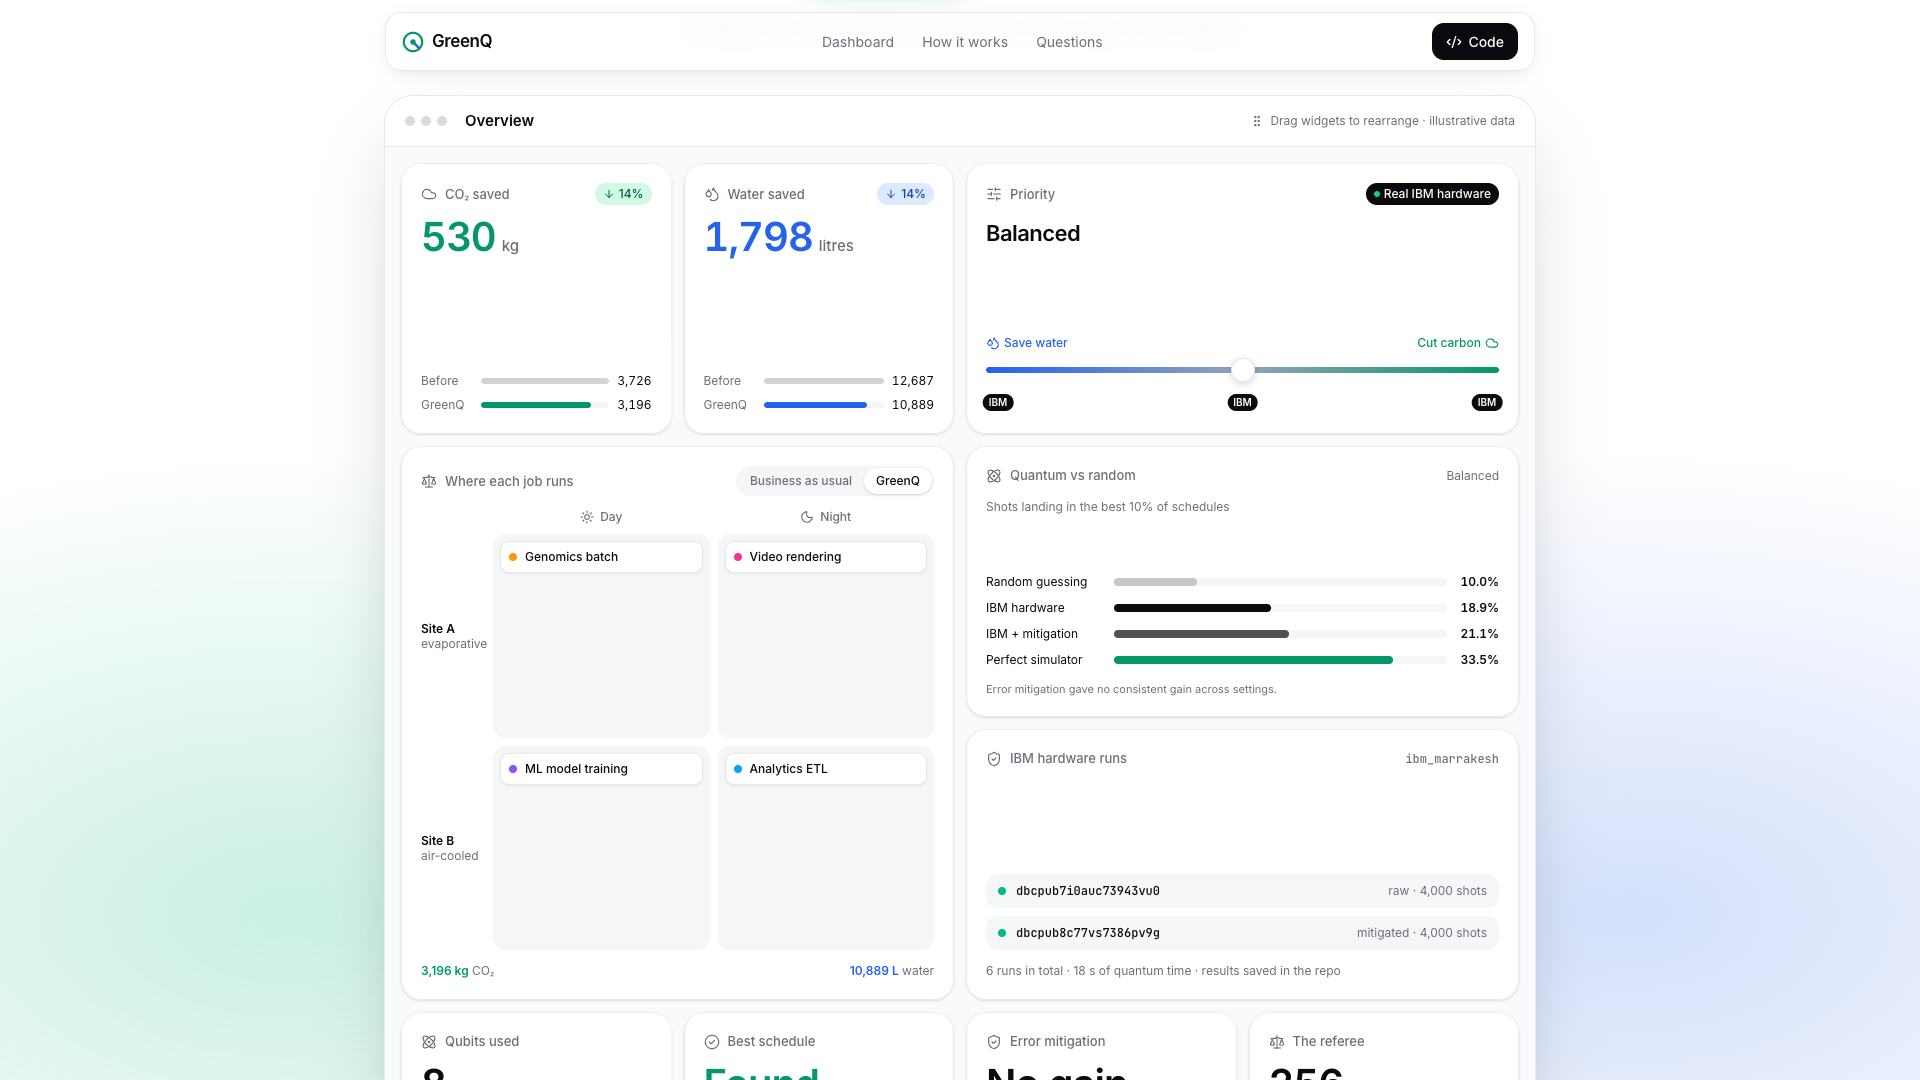
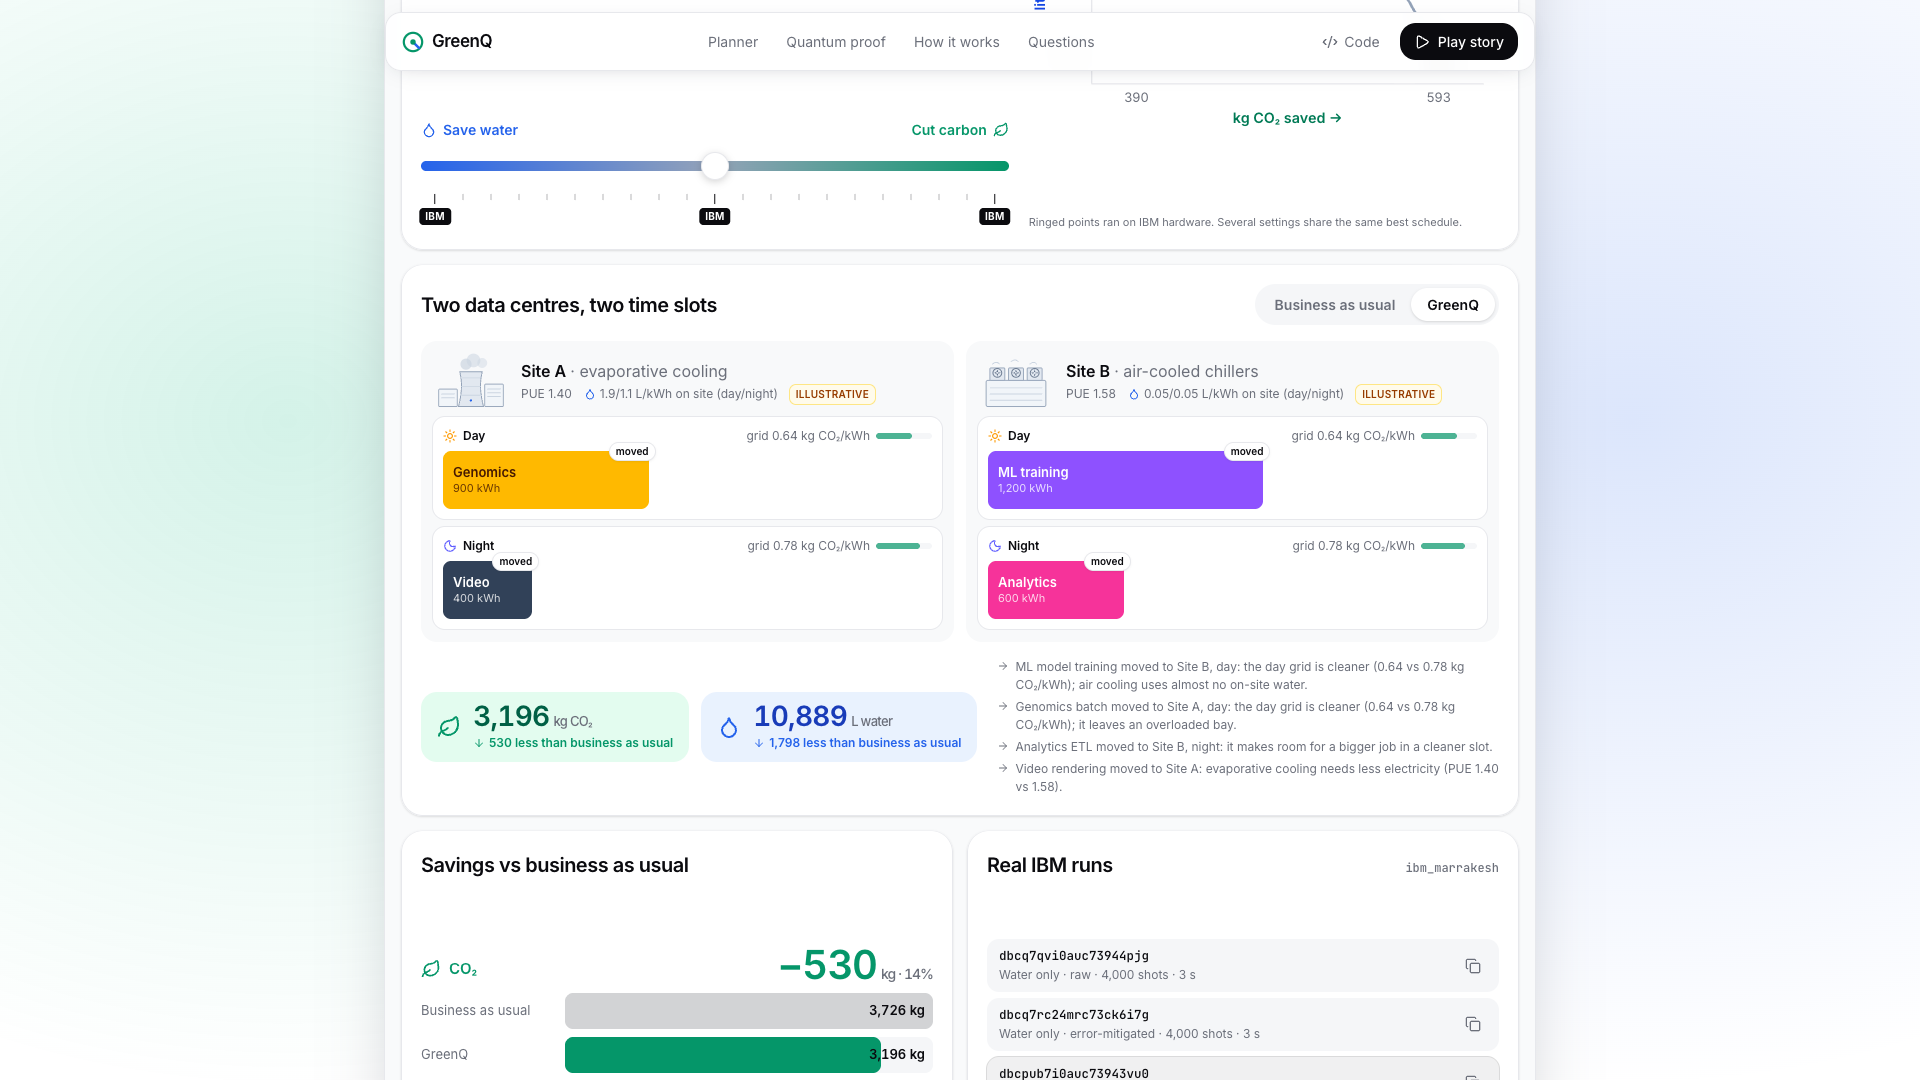
docs: align docs with the story-driven UI (video script, explainer, README screenshots, product brief)

diff --git a/docs/VIDEO_SCRIPT.md b/docs/VIDEO_SCRIPT.md
@@ -1,63 +1,45 @@
 # GreenQ demo video script (3 to 4 minutes)
 
-For: whoever records the YouTube demo. The viewers are the hackathon jury, so it must also make sense on a projector in the finals.
+For: whoever records the YouTube demo. The viewers are the hackathon jury, so it must also work on a projector in the finals.
 
-**Setup before recording**
-- Start the demo with `python -m server` and open http://127.0.0.1:8000. It runs fully offline from saved results, so there is no waiting on IBM.
-- Reload the page just before recording so the gauges play their drawdown on camera.
-- Browser full screen at **1920×1080**, zoom 100%, dark theme. Close other tabs and notifications.
-- Record the screen plus a voice-over (OBS or the macOS screen recorder, `Cmd+Shift+5`). Speak slowly. Each block below is about 25-40 seconds.
-- Total narration is about 500 words, roughly 3.5 minutes at a calm pace.
-- Upload to YouTube (Unlisted is fine unless the organisers say otherwise), then paste the link into the README and slide 12.
+**Setup**
+- `python -m server` in the project folder, then open http://127.0.0.1:8000 in a full-screen browser at **1920×1080**, zoom 100%. It runs offline from saved results.
+- Record screen + voice (OBS, or `Cmd+Shift+5` on macOS). Speak slowly.
+- The easiest take: press **Play story** in the top-right and narrate over it, then scroll through the rest by hand. Scrolling or clicking pauses the story.
+- Narration is about 480 words, roughly 3.5 minutes.
 
 ---
 
-### 0:00-0:20 · Hook (Headline section)
-**Screen:** the opening headline, "Same jobs, smarter placement.", with the two big numbers. Let the two gauges finish dropping from the amber BUSINESS AS USUAL tag to the GreenQ level.
+### 0:00-0:20 · Headline (hero)
+**Screen:** the top of the page; the small animation shows the jobs moving.
 
-**Say:**
-"Data centres burn electricity and evaporate cooling water. Many of their jobs are flexible: they could run at a different site or at a different time. GreenQ uses a quantum algorithm to decide where and when, and in our example it saves 530 kilograms of CO₂ and about 1,800 litres of water, with the same jobs."
+**Say:** "Data centres burn electricity and evaporate cooling water. Many of their jobs are flexible: they could run at another site, or at another time. GreenQ uses a quantum algorithm to decide where and when. In our example the same four jobs emit 530 kilograms less CO₂ and use about 1,800 litres less water."
 
-### 0:20-0:55 · The problem (Schedule board, left side)
-**Screen:** the business-as-usual board. Point the cursor at Site A at night, where two jobs are stacked and the cell is marked overloaded.
+### 0:20-1:05 · The two data centres (press Play story)
+**Screen:** the story scrolls to the planner. First *Business as usual*, then the job blocks slide to *GreenQ*.
 
-**Say:**
-"Here's business as usual. Each job runs at its home site the moment it arrives. We have two sites: Site A uses evaporative cooling, which saves electricity but uses water. Site B is air-cooled: almost no water on site, but more electricity, and in India most electricity comes from coal plants that also consume water. An evening batch burst puts two big jobs on Site A overnight, on a coal-heavy grid, and overloads it."
+**Say:** "Here are two data centres. Site A uses evaporative cooling: less electricity, more water. Site B is air-cooled: almost no water on site, but more electricity. Each has a day slot, when India's grid is cleaner thanks to solar, and a night slot. Business as usual runs every job at home the moment it arrives, and two big jobs pile onto Site A at night. GreenQ moves them. The ML job goes to Site B in the day, and the others spread out. The counters show the result, and underneath, the reason each job moved."
 
-### 0:55-1:25 · GreenQ's schedule (Schedule board, both sides)
-**Screen:** scroll so both boards are in view; the jobs slide into their GreenQ bays (use **Replay the move** to show it again). Pause on the result.
+### 1:05-1:45 · The trade-off (story sweeps the slider)
+**Screen:** the slider sweeps to *Carbon only*, then *Water only*; the dot moves along the trade-off curve and the blocks re-place.
 
-**Say:**
-"GreenQ moves the ML training job to the air-cooled site during the day, when solar makes the grid cleaner, and spreads the other jobs out so nothing is overloaded. Total: 14 percent less carbon and 14 percent less water. We checked this against every one of the 256 possible schedules, and it is the true best one."
+**Say:** "Carbon and water pull against each other. Favour carbon and the plan changes; favour water and it changes again. This curve is every compromise. The three stops marked IBM, water only, balanced and carbon only, were run on a real IBM quantum computer."
 
-### 1:25-2:05 · The trade-off (slider)
-**Screen:** drag the slider slowly from SAVE WATER to CUT CARBON. Stop on the three solid stops badged **REAL IBM HARDWARE**; point at the job IDs in the line under the slider.
+### 1:45-2:40 · The quantum part (story scrolls to the circuit, then the histogram)
+**Screen:** the circuit, then the histogram and the four facts.
 
-**Say:**
-"Carbon and water pull in different directions, so we added a priority slider. Favour water and the jobs move one way; favour carbon and they move another. Five different schedules are best somewhere along this slider. The three marked positions, water only, balanced and carbon only, were run on a real IBM quantum computer, and their results are saved in our repository with the job IDs."
+**Say:** "This is the actual circuit we ran: eight qubits, two per job, a 'where' and a 'when'. The textbook method needs sixteen. Hadamards start with all 256 schedules at once; the green cost layer adds each schedule's carbon-and-water cost; the blue mixer makes cheap schedules interfere into the lead. Each shot reads out one schedule. Random guessing puts 10 percent of its shots in the best tenth. IBM's Marrakesh processor put 18 to 23 percent there, and a perfect simulator about 30. So the hardware works, noise costs part of the gain, and error mitigation gave no consistent improvement."
 
-### 2:05-2:50 · Is the quantum part real? (Quantum proof panel)
-**Screen:** the "Is the quantum part real?" section: the best-tenth bars (solid = hardware, hatched = simulator, dashed = random), then scroll to the job ledger and the four honest notes.
+### 2:40-3:10 · Proof it is real (scroll up to the panels)
+**Screen:** the Real IBM runs panel; point at the job IDs.
 
-**Say:**
-"How do we know the quantum part is doing real work? Each shot of the circuit outputs one complete schedule. Random guessing puts 10 percent of its shots in the best tenth of schedules. IBM's Marrakesh processor put about 19 to 21 percent there, roughly twice as many, and a perfect simulator about 33 percent. So the real hardware works, and noise costs part of the gain. We also tried error mitigation, and honestly it gave no consistent improvement. We ran six hardware jobs and used 18 seconds of quantum time."
+**Say:** "We ran six jobs on IBM hardware, eighteen seconds of quantum time, and every result is saved in our repository with its job ID."
 
-### 2:50-3:25 · How it works (four steps)
-**Screen:** the "How it works" section.
-
-**Say:**
-"How it works, in four steps. One: every job gets two qubits, a 'where' qubit and a 'when' qubit, so every measurement is a valid schedule. That uses half the qubits of the textbook approach. Two: we turn the carbon-plus-water cost into a Hamiltonian, and our tests prove it matches the classical cost on every schedule. Three: a QAOA circuit, built in Qiskit, uses interference to make cheap schedules more likely; we train its two angles on a simulator. Four: the trained circuit runs on IBM hardware, and we grade the answer against brute force."
-
-### 3:25-3:50 · Honesty and close (footer)
-**Screen:** the honesty footer, then back to the headline.
-
-**Say:**
-"To be clear: at this size a normal computer solves the problem instantly, and we use it as our referee. We don't claim a quantum advantage. The grid carbon and power-plant water figures are cited; the site and job figures are illustrative and labelled. What we've shown is a correct, compact quantum formulation of a real sustainability problem, validated end to end on real IBM hardware. That's GreenQ, by Team Response200. Thanks for watching."
+### 3:10-3:40 · Honest close (scroll to How it works, Honest answers, footer)
+**Say:** "To be clear: at this size a laptop checks all 256 schedules instantly, and we use it as our referee. We claim no quantum advantage. The grid carbon and power-plant water figures are cited; the sites and jobs are illustrative. What we show is a correct, compact quantum formulation of a real sustainability problem, tested on real IBM hardware. That's GreenQ, by Team Response200."
 
 ---
 
-**Checklist after recording**
-- [ ] Every number spoken matches the screen (530 kg, ~1,800 L, 14%, 19-21%, 10%, 33%, 6 jobs, 18 s)
-- [ ] The "real IBM hardware" badge is visible on screen while it's mentioned
-- [ ] Video is 3-4 minutes, 1080p, audio is clear
-- [ ] YouTube link added to README (Submission Checklist + Links) and PPT slide 12
+**Checklist:** every number spoken matches the screen (530 kg, ~1,800 L, 8 vs 16 qubits, 10%, 18–23%, 6 jobs, 18 s) · 3–4 minutes at 1080p · YouTube link added to README and PPT slide 12.
+
+_Note: if later features add new panels (for example "Methods compared" or "How it scales"), this script is updated to match what ships._

diff --git a/docs/EXPLAINER.md b/docs/EXPLAINER.md
@@ -101,19 +101,15 @@ The search space grows as 4^jobs. Qubits grow linearly (2 per job), but circuit 
 The circuit in `greenq/qaoa.py`, built with Qiskit's `QAOAAnsatz` from our own Hamiltonian, transpiled for the real device and run with `SamplerV2` on IBM hardware. Job IDs are in `results/hardware/`.
 
 ## 9. The demo UI (what each part shows, and what to say)
-Start it with `python -m server` and open http://127.0.0.1:8000. It reads only saved results, so it needs no internet and no IBM account.
+Start it with `python -m server` and open http://127.0.0.1:8000. It reads only saved results (`results/ui_data.json`), so it needs no internet and no IBM account. Press **Play story** for a 20-second guided run; scrolling or clicking pauses it.
 
-**Page, top to bottom**
-1. **Headline.** "Same jobs, smarter placement. Less carbon. Less water." plus the two savings (530 kg CO₂, 1,798 L water).
-2. **Dashboard.** Live widgets you can drag around:
-   - **CO₂ saved / Water saved:** before vs GreenQ.
-   - **Priority slider:** water ↔ carbon. The three stops marked **IBM** ran on real IBM hardware; the others are checked by brute force.
-   - **Where each job runs:** toggle *Business as usual* / *GreenQ* and watch the jobs move; a red bay is overloaded.
-   - **Quantum vs random:** share of shots in the best 10% of schedules (random 10%, IBM hardware about 19-21%, perfect simulator about 33%), with the note that error mitigation gave no consistent gain.
-   - **IBM hardware runs:** the real job IDs.
-   - **Qubits used, Best schedule, Error mitigation, The referee:** one fact each.
-3. **How it works.** Encode (2 qubits per job) → Run (QAOA on IBM) → Check (laptop as referee).
-4. **Honest answers.** Five short questions the jury will ask.
-5. **Footer.** What's cited, what's real, what's illustrative, plus sources.
+| Part | What it shows | One line to say |
+|---|---|---|
+| Hero | Headline, the two savings, and a small looping animation of the 4 jobs moving | "Same jobs, smarter placement: 530 kg CO₂ and 1,798 L water saved in this example." |
+| What matters more? | Big slider (21 settings; the 3 marked **IBM** ran on real hardware), savings at that setting, and the trade-off curve (CO₂ saved vs water saved) | "Carbon and water pull against each other; the curve is every possible compromise." |
+| Two data centres | Site A (cooling tower, evaporative) and Site B (chillers, air-cooled), each with a day and a night lane and that slot's grid carbon. Job blocks are sized by energy. Toggle *Business as usual* / *GreenQ* to watch them move; the reasons are listed underneath. | "Business as usual piles two big jobs onto Site A at night. GreenQ spreads them to cleaner, drier slots, and here is why each one moved." |
+| Savings / Real IBM runs | Before vs after bars; all 6 hardware job IDs with copy buttons | "Every hardware shot is saved in the repo with its job ID." |
+| The quantum part, shown | The real 8-qubit circuit (H, cost layer with γ, mixer with β, measure; each wire is a job's where/when bit), the histogram (random vs simulator vs IBM), and four honest facts | "The real hardware lands in the best tenth of schedules about twice as often as random. Error mitigation didn't help consistently. No advantage claimed." |
+| How it works / Honest answers / Footer | 3 steps, 5 FAQ answers, cited vs illustrative, sources | "A laptop is our referee." |
 
-**One line per part, for the video:** "Same jobs, smarter placement" → "move the slider and the plan changes; the IBM stops are real hardware" → "toggle and watch the jobs move off the overloaded site" → "the quantum computer lands in the best schedules about twice as often as random" → "a laptop is our referee; no quantum advantage claimed".
+**Where each number comes from:** savings and schedules come from brute force over all 256 schedules (`scripts/export_ui_data.py`); the circuit is exported from the real cost operator, and a test rebuilds it and checks it matches; the histograms come from the saved counts in `results/sim/` and `results/hardware/`.

diff --git a/PRODUCT.md b/PRODUCT.md
@@ -8,7 +8,7 @@ web
 
 ## Stack
 
-React + Vite frontend, built to static files and served by a FastAPI backend (one command starts everything). Chosen by the user. The quantum core (`greenq/`) is independent Python; the UI only reads saved result files and may optionally call the simulator through FastAPI. The Streamlit app (`app/streamlit_app.py`) stays as a fallback until the new UI is verified.
+React + Vite frontend, built to static files and served by a FastAPI backend (one command starts everything). Chosen by the user. The quantum core (`greenq/`) is independent Python; the UI only reads saved result files and may optionally call the simulator through FastAPI. The Streamlit app (`app/streamlit_app.py`) remains as a no-Node fallback.
 
 ## Users
 
@@ -61,4 +61,4 @@ A binary "where + when" qubit encoding (2 qubits per job, so every measured bits
 
 ## Accessibility & Inclusion
 
-Projector and video legibility: high contrast on dark, large type. Carbon and water must be distinguishable by label and shape, not only by green vs blue. Respect reduced-motion preferences.
+Projector and video legibility: light theme with dark text (body contrast ≥ 4.5:1), large numbers, few words; checked at 1920×1080, 1366×768 and phone width. Carbon and water must be distinguishable by label and icon shape (leaf vs droplet), not only by green vs blue. Respect reduced-motion preferences.

diff --git a/README.md b/README.md
@@ -74,7 +74,7 @@
 
 ![GreenQ demo: landing page](docs/images/ui_hero.png)
 
-*The web demo at 1920×1080: one headline, the savings, and a live dashboard just below.*
+*The web demo at 1920×1080: the headline, the savings, and a looping miniature of the jobs moving. Press **Play story** for a 20-second guided run.*
 
 ---
 
@@ -168,9 +168,13 @@ Full plain-language walkthrough: [docs/EXPLAINER.md](docs/EXPLAINER.md). Design 
 
 Raw results with backend, job ID, timestamps, transpiled-circuit stats and all counts: [results/hardware/](results/hardware/). Simulator results: [results/sim/](results/sim/).
 
-| Dashboard (drag to rearrange; slider stops marked "IBM" ran on real hardware) | How it works |
+| Two data centres: jobs move from business as usual to GreenQ | The real 8-qubit circuit we ran (drawn from the exported gates) |
 |---|---|
-| ![dashboard](docs/images/ui_dashboard.png) | ![how it works](docs/images/ui_how.png) |
+| ![two data centres](docs/images/ui_dashboard.png) | ![circuit](docs/images/ui_circuit.png) |
+
+| Quantum vs random vs simulator, with the honest strip |
+|---|
+| ![quantum proof](docs/images/ui_proof.png) |
 
 <details><summary>Fallback Streamlit demo screenshots</summary>
 
